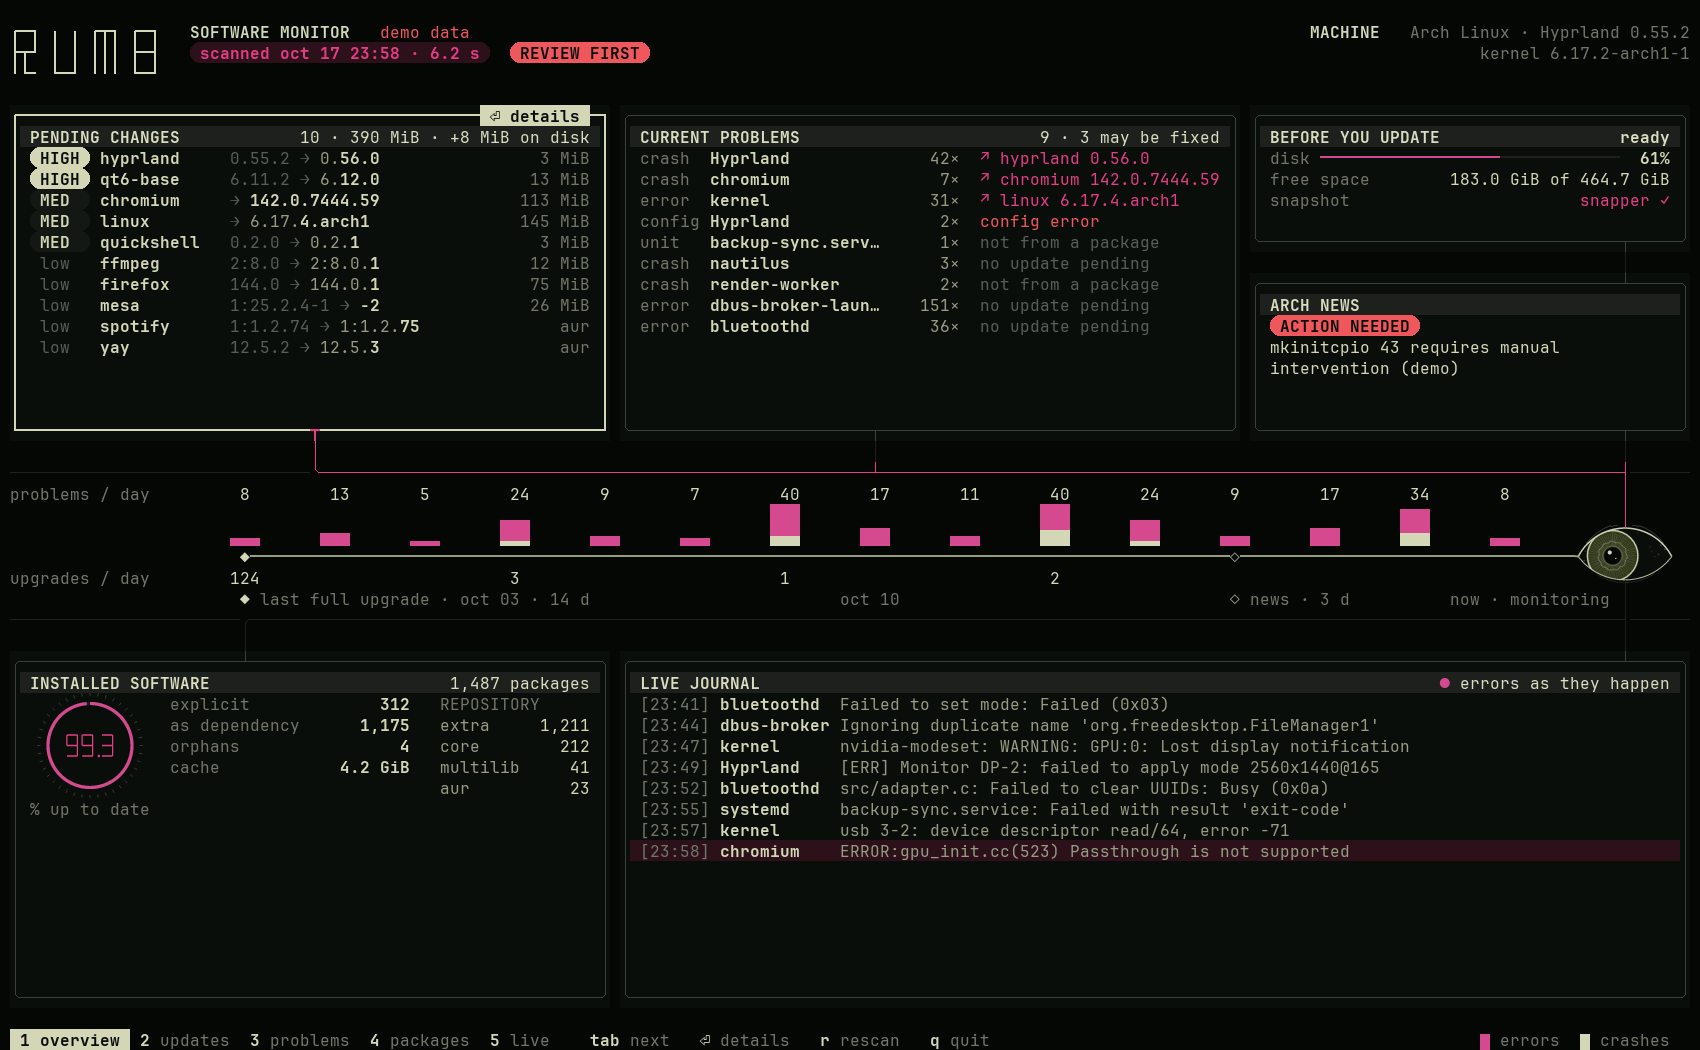
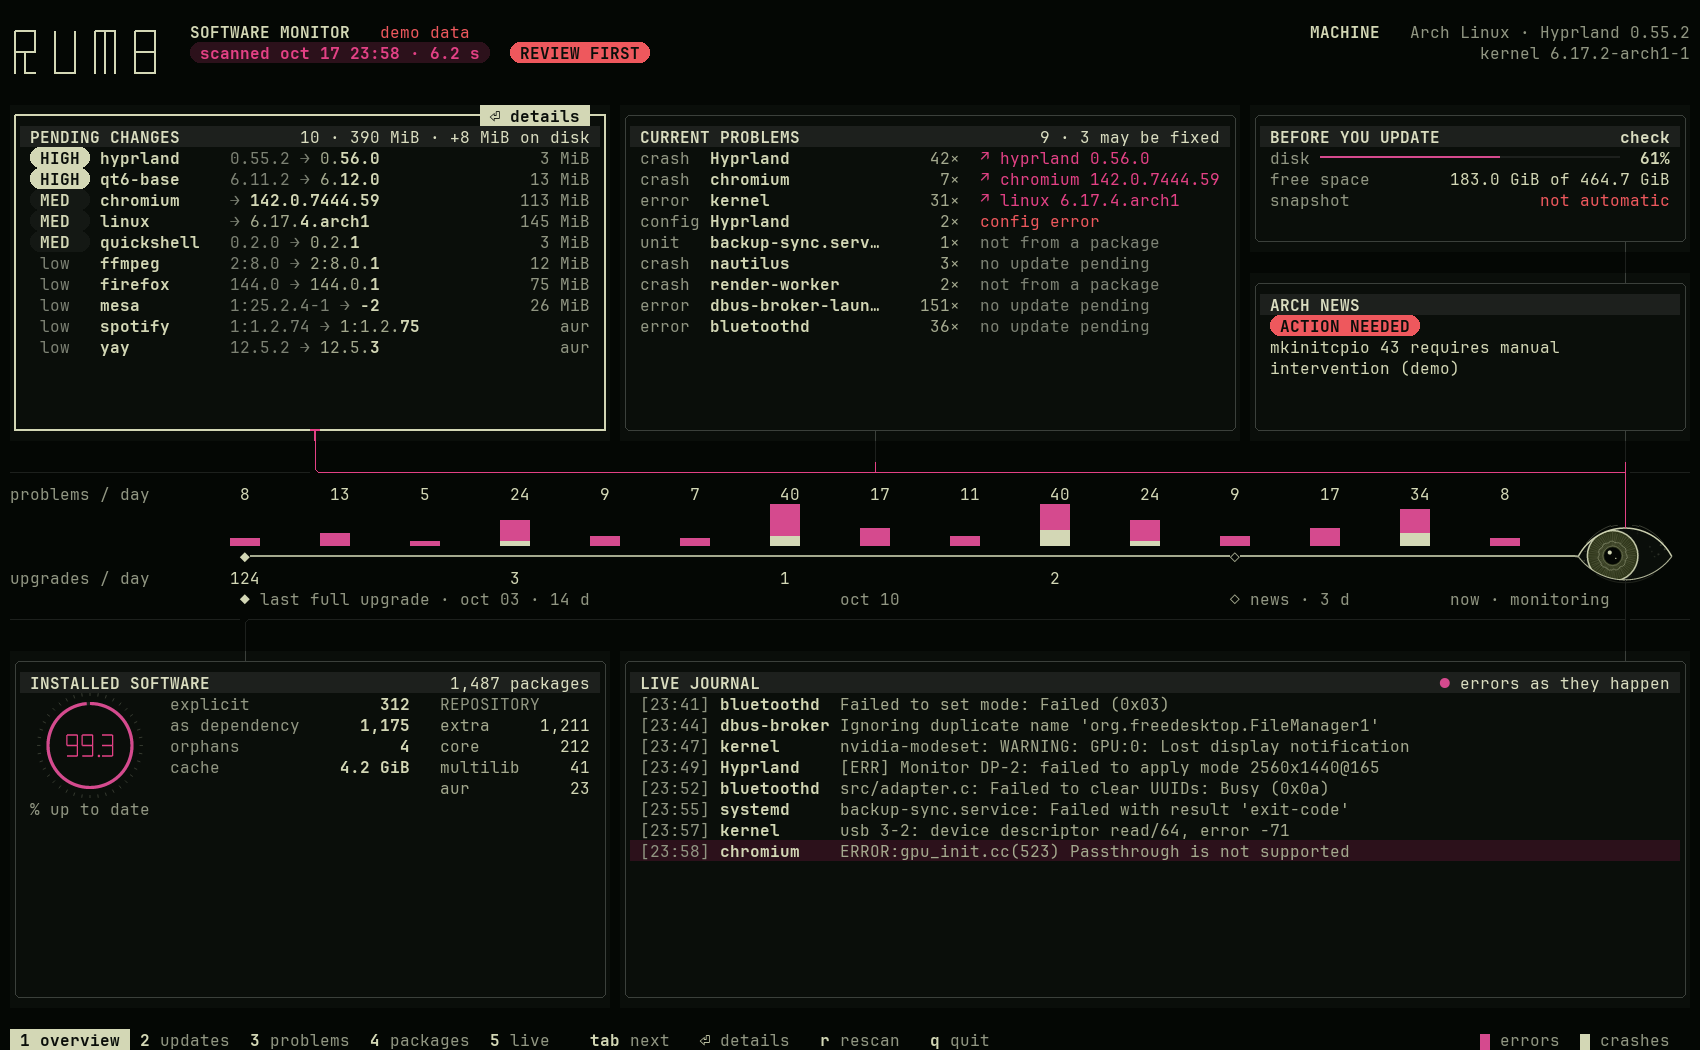
Keep all text at a contrast of at least 4.5:1 in every palette

diff --git a/tui/src/theme.rs b/tui/src/theme.rs
@@ -23,7 +23,7 @@ struct Live {
 
 impl Theme {
     fn fixed(palette: Palette) -> Self {
-        Theme { palette, generation: 0, live: None }
+        Theme { palette: readable_text(palette), generation: 0, live: None }
     }
 
     pub fn refresh(&mut self, now: Instant) -> bool {
@@ -91,11 +91,11 @@ fn stamp(live: &Live) -> Option<(SystemTime, String, bool)> {
 
 fn read_live(live: &Live) -> Option<Palette> {
     if std::fs::read_to_string(&live.name).is_ok_and(|name| name.trim().eq_ignore_ascii_case("labra")) {
-        return Some(Palette::labra());
+        return Some(readable_text(Palette::labra()));
     }
     let text = std::fs::read_to_string(&live.colors).ok()?;
     let light = live.colors.with_file_name("light.mode").is_file();
-    derive(&resolve(parse(&text), light))
+    derive(&resolve(parse(&text), light)).map(readable_text)
 }
 
 fn parse(text: &str) -> HashMap<String, String> {
@@ -226,6 +226,31 @@ fn legible(color: Color, against: Color, toward: Color) -> Color {
     (0..=10).map(|step| mix(color, toward, f64::from(step) / 10.0)).find(|candidate| contrast(*candidate, against) >= 3.0).unwrap_or(toward)
 }
 
+const TEXT_CONTRAST: f64 = 4.5;
+const TEXT_STEP: f64 = 1.25;
+
+fn worst_contrast(color: Color, backgrounds: &[Color]) -> f64 {
+    backgrounds.iter().map(|background| contrast(color, *background)).fold(f64::INFINITY, f64::min)
+}
+
+fn readable(color: Color, backgrounds: &[Color], target: f64, toward: Color) -> Color {
+    (0..=40).map(|step| mix(color, toward, f64::from(step) / 40.0)).find(|candidate| worst_contrast(*candidate, backgrounds) >= target).unwrap_or(toward)
+}
+
+fn readable_text(mut pal: Palette) -> Palette {
+    let tiles = [pal.page, pal.panel, pal.kpi];
+    let rows = [pal.page, pal.panel, pal.kpi, pal.teal_light];
+    pal.faint = readable(pal.faint, &tiles, TEXT_CONTRAST, pal.ink);
+    pal.label = readable(pal.label, &rows, (worst_contrast(pal.faint, &tiles) * TEXT_STEP).max(TEXT_CONTRAST), pal.ink);
+    pal.ink2 = readable(pal.ink2, &rows, (worst_contrast(pal.label, &rows) * TEXT_STEP).max(TEXT_CONTRAST), pal.ink);
+    pal.teal = readable(pal.teal, &tiles, TEXT_CONTRAST, pal.ink);
+    pal.alert = readable(pal.alert, &tiles, TEXT_CONTRAST, pal.ink);
+    let (white, black) = (Color::Rgb(255, 255, 255), Color::Rgb(0, 0, 0));
+    let away = if contrast(white, pal.bar) >= contrast(black, pal.bar) { white } else { black };
+    pal.bar_text = readable(pal.bar_text, &[pal.bar], TEXT_CONTRAST, away);
+    pal
+}
+
 #[cfg(test)]
 mod tests {
     use super::*;
@@ -254,6 +279,20 @@ mod tests {
         }
         for name in names() {
             assert!(named(&name).is_some(), "{name}");
+        }
+    }
+
+    #[test]
+    fn every_palette_keeps_text_readable_and_graded() {
+        for name in names() {
+            let pal = readable_text(named(&name).unwrap());
+            let tiles = [pal.page, pal.panel, pal.kpi];
+            let rows = [pal.page, pal.panel, pal.kpi, pal.teal_light];
+            let (faint, label, ink2) = (worst_contrast(pal.faint, &tiles), worst_contrast(pal.label, &rows), worst_contrast(pal.ink2, &rows));
+            for (role, value) in [("faint", faint), ("label", label), ("ink2", ink2), ("teal", worst_contrast(pal.teal, &tiles)), ("alert", worst_contrast(pal.alert, &tiles)), ("bar_text", contrast(pal.bar_text, pal.bar))] {
+                assert!(value >= TEXT_CONTRAST, "{name} {role} {value:.2}");
+            }
+            assert!(faint < label && label <= ink2, "{name}: {faint:.2} {label:.2} {ink2:.2}");
         }
     }
 
